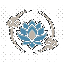
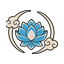
feat(assets): 芭蕉扇换图并接入三大阵营，P0 101/108
- 芭蕉扇换成绿幕新版：三裂蕉叶、金边、缠红绳柄与青玉环
- 三大阵营由绿幕三连图切分，师徒/仙佛/妖王各 64×64，银白描边不再被抠穿
- 灵蕴改用新版绿幕图，唐僧同步重出
- 五行山锁格保持 --bg none 版本：青绿山石与绿幕撞色，整块石头会被吃掉
- 台账与总纲升至 v2.16，P0 101/108，剩余 7 个 HUD 图标

diff --git a/docs/待办清单-素材与上线.md b/docs/待办清单-素材与上线.md
@@ -6,7 +6,7 @@
 
 > 生成日期：2026-07-09
 > 最近修订：2026-10-26
-> 当前状态：玩法与 UI 功能基本完成；P0 已处理并接入 98/108，剩余 10 张（全部是 UI 图标）；14 个英雄 1 阶、14 张英雄碎片、20 张小兵、10 个普通敌人、9 个精英敌人、9 个 BOSS、5 个道具、12 个法宝和唐僧已完成本地处理与接入，9 个 BOSS 待真实棋盘或 UI 截图验收；真机验证尚未开始
+> 当前状态：玩法与 UI 功能基本完成；P0 已处理并接入 101/108，剩余 7 张（全部是 UI 图标）；14 个英雄 1 阶、14 张英雄碎片、20 张小兵、10 个普通敌人、9 个精英敌人、9 个 BOSS、5 个道具、12 个法宝和唐僧已完成本地处理与接入，9 个 BOSS 待真实棋盘或 UI 截图验收；真机验证尚未开始
 > 使用方式：按 P0、第二批两个批次执行，做完一项改 `[ ]` 为 `[x]`
 
 ---
@@ -50,12 +50,12 @@
 - [x] `仙桃.png`：64×64，绿幕版叶子保留，透明边缘无亮绿色残留
 - [x] `战斗背景_森林.png`：750×1334，经确认保留小面积环境题字
 - [x] `art-source/references/风格板.png`：早期流程留档；含已替换素材，不再作为后续生图参考
-- [ ] 其余 10 个 P0 运行时静态资源（均为 UI 图标）
-- [x] 除上述 98 张已处理并接入素材外，其余 10 张旧 P0 PNG 仍只作为开发期占位，不参与验收；`青狮.png`、`白象.png` 2 张无代码引用的非 P0 旧图已删除（2026-10-26）
+- [ ] 其余 7 个 P0 运行时静态资源（均为 UI 图标）
+- [x] 除上述 101 张已处理并接入素材外，其余 7 张旧 P0 PNG 仍只作为开发期占位，不参与验收；`青狮.png`、`白象.png` 2 张无代码引用的非 P0 旧图已删除（2026-10-26）
 
 ### 现有资产盘点
 
-`public/assets/` 当前有 108 张运行时 PNG：其中 98 张已处理并接入、10 张仍是旧版 P0 占位。旧文件只用于避免现有游戏失去降级资源，不代表可用美术，也不按代码引用情况删除。P0 目标是 108 张：
+`public/assets/` 当前有 108 张运行时 PNG：其中 101 张已处理并接入、7 张仍是旧版 P0 占位。旧文件只用于避免现有游戏失去降级资源，不代表可用美术，也不按代码引用情况删除。P0 目标是 108 张：
 
 | 类别 | 现有数量 | 处理结论 |
 | --- | ---: | --- |
@@ -66,13 +66,13 @@
 | 敌人 | 28 | 28 张 P0 已全部处理并接入，其中 9 个 BOSS 待截图验收 |
 | 道具 | 5 | 5 张已全部处理并接入 |
 | 法宝 | 12 | 12 张已全部处理并接入 |
-| UI、背景、锁格 | 14 | 4 张已完成（`仙桃`、`战斗背景_森林`、`灵蕴`、`五行山-符印封石`），继续补 10 张 |
+| UI、背景、锁格 | 14 | 7 张已完成（`仙桃`、`战斗背景_森林`、`灵蕴`、`五行山-符印封石`、`阵营_师徒`、`阵营_仙佛`、`阵营_妖王`），继续补 7 张 |
 
 > 文件“已经存在”不等于素材“已经完成”。除用户确认的 20 张小兵、10 个普通敌人和当前唐僧图外，旧图不得作为 Gemini 参考，也不得混入 v2 风格板；这些例外素材同样不作为后续新图的画风参考。P0 只验收中立静态图、透明通道、尺寸、脚点和棋盘合成；左右方向必须在第二批成对验收。
 
 ### 核心缺口
 
-- [ ] 其余 10 张 P0 静态图生成并验收
+- [ ] 其余 7 张 P0 静态图生成并验收
 - [ ] 全部 UI 界面视觉重制，包括面板、按钮、图标、背景、状态和排版 — **0 个界面最终验收**
 - [ ] `VisualPainter.ts`、`BattleUiPrimitives.ts` 等程序化占位视觉替换为最终资源
 - [ ] 【第二批】全部角色左右向静态定稿图；每个角色必须成对交付 `stand_right` + `stand_left`
@@ -157,9 +157,9 @@
 | 道具图标 | 5 张全部生成、处理并接入 | 5 张 | [x] 5/5 |
 | 法宝图标 | 12 张全部按原著原型生成、处理并接入 | 12 张 | [x] 12/12 |
 | UI、背景、锁格 | 12 个 UI 图标 + 森林战斗背景 + 五行山锁格；仙桃和森林背景已完成 | 14 张 | [x] 2/14 |
-| **合计** | P0 运行时静态资源 | **108 张** | [x] 98/108 已处理 |
+| **合计** | P0 运行时静态资源 | **108 张** | [x] 101/108 已处理 |
 
-> P0 每张只做中立静态图，不带方向。`stand_right`、`stand_left` 从第二批开始成对交付。`98/108` 表示已处理并接入；9 个 BOSS 仍需真实棋盘或 UI 截图验收。
+> P0 每张只做中立静态图，不带方向。`stand_right`、`stand_left` 从第二批开始成对交付。`101/108` 表示已处理并接入；9 个 BOSS 仍需真实棋盘或 UI 截图验收。
 
 ### 2.3 P0 UI、背景、锁格与旧图隔离
 

diff --git a/docs/P0-剩余27张提示词-可直接粘贴.md b/docs/P0-剩余27张提示词-可直接粘贴.md
@@ -2,7 +2,7 @@
 
 > 生成日期：2026-10-26
 > 范围：P0 未完成的 27 张（道具 4 + 法宝 11 + UI 与锁格 12）
-> **进度（2026-10-27）**：道具 4 张、法宝 11 张、灵蕴、五行山锁格均已完成，剩余 10 张（全部是 UI 图标：血量、波次、击杀、暂停、星级、扫荡、广告奖励、阵营 师徒/仙佛/妖王）。
+> **进度（2026-10-27）**：道具 4 张、法宝 11 张、灵蕴、五行山锁格、阵营 3 张均已完成，剩余 7 张（血量、波次、击杀、暂停、星级、扫荡、广告奖励）。
 > 规则来源：[素材生产总纲.md](./素材生产总纲.md) §8、§9 与 [Gemini-P0单资产提示词包.md](./Gemini-P0单资产提示词包.md) §1、§2
 > 本文件是把固定块和单次 brief 拼好的成品，逐张复制，不要再自己改写风格描述。
 
@@ -20,7 +20,7 @@
    pnpm assets:prepare -- "D:\下载\原图.png" --type <类型> --name "<文件名>" --force
    ```
    `--type` 取值：道具 `item`、法宝 `artifact`、UI 图标 `ui`、锁格 `lock`。
-4. **每落地一张就更新台账**的 `98/108`，不要攒完再一次性验收。
+4. **每落地一张就更新台账**的 `101/108`，不要攒完再一次性验收。
 5. 提示词里的色键已按主体颜色选好。如果出图后主体和背景难分辨，把那一句换成另一个色键（绿色 ⇄ 洋红色）再生成。
 
 ## 一、道具（4 张，128×128，`--type item`）

diff --git a/docs/Gemini-P0单资产提示词包.md b/docs/Gemini-P0单资产提示词包.md
@@ -365,7 +365,7 @@ UI 图标统一用第 2.3 节模板；背景和锁格使用各自的专属模板
 
 历史 brief：Q 版青年僧人，面容清秀，白色内袍、红金锦斓袈裟、五佛冠、僧鞋；右手竖持一根九环锡杖，左手结印。当前游戏已采用现有唐僧图，本 brief 不再执行。
 
-以上分组合计 **108 个运行时文件**。当前已处理并接入 **98/108**，剩余 10 张（全部是 UI 图标）：其中 20 张小兵和 10 个普通敌人来自旧风格素材处理，属于用户确认例外，不计作 v2 新生成素材。
+以上分组合计 **108 个运行时文件**。当前已处理并接入 **101/108**，剩余 7 张（全部是 UI 图标）：其中 20 张小兵和 10 个普通敌人来自旧风格素材处理，属于用户确认例外，不计作 v2 新生成素材。
 
 ## 5. P0 生成顺序
 
@@ -376,7 +376,7 @@ UI 图标统一用第 2.3 节模板；背景和锁格使用各自的专属模板
 5. `[x]` 14 个英雄碎片已全部完成并接入 `HeroShard.ts`。
 6. `[x]` 9 个精英敌人已全部完成。
 7. `[x]` 生成 9 个 BOSS。
-8. `[ ]` 生成剩余 10 个 UI 图标（含 3 个阵营徽记）。
+8. `[ ]` 生成剩余 7 个 UI 图标。
 9. `[ ]` 全部通过后，统一接入并做真实棋盘截图验收。
 
 ## 6. 本地后处理和验收
